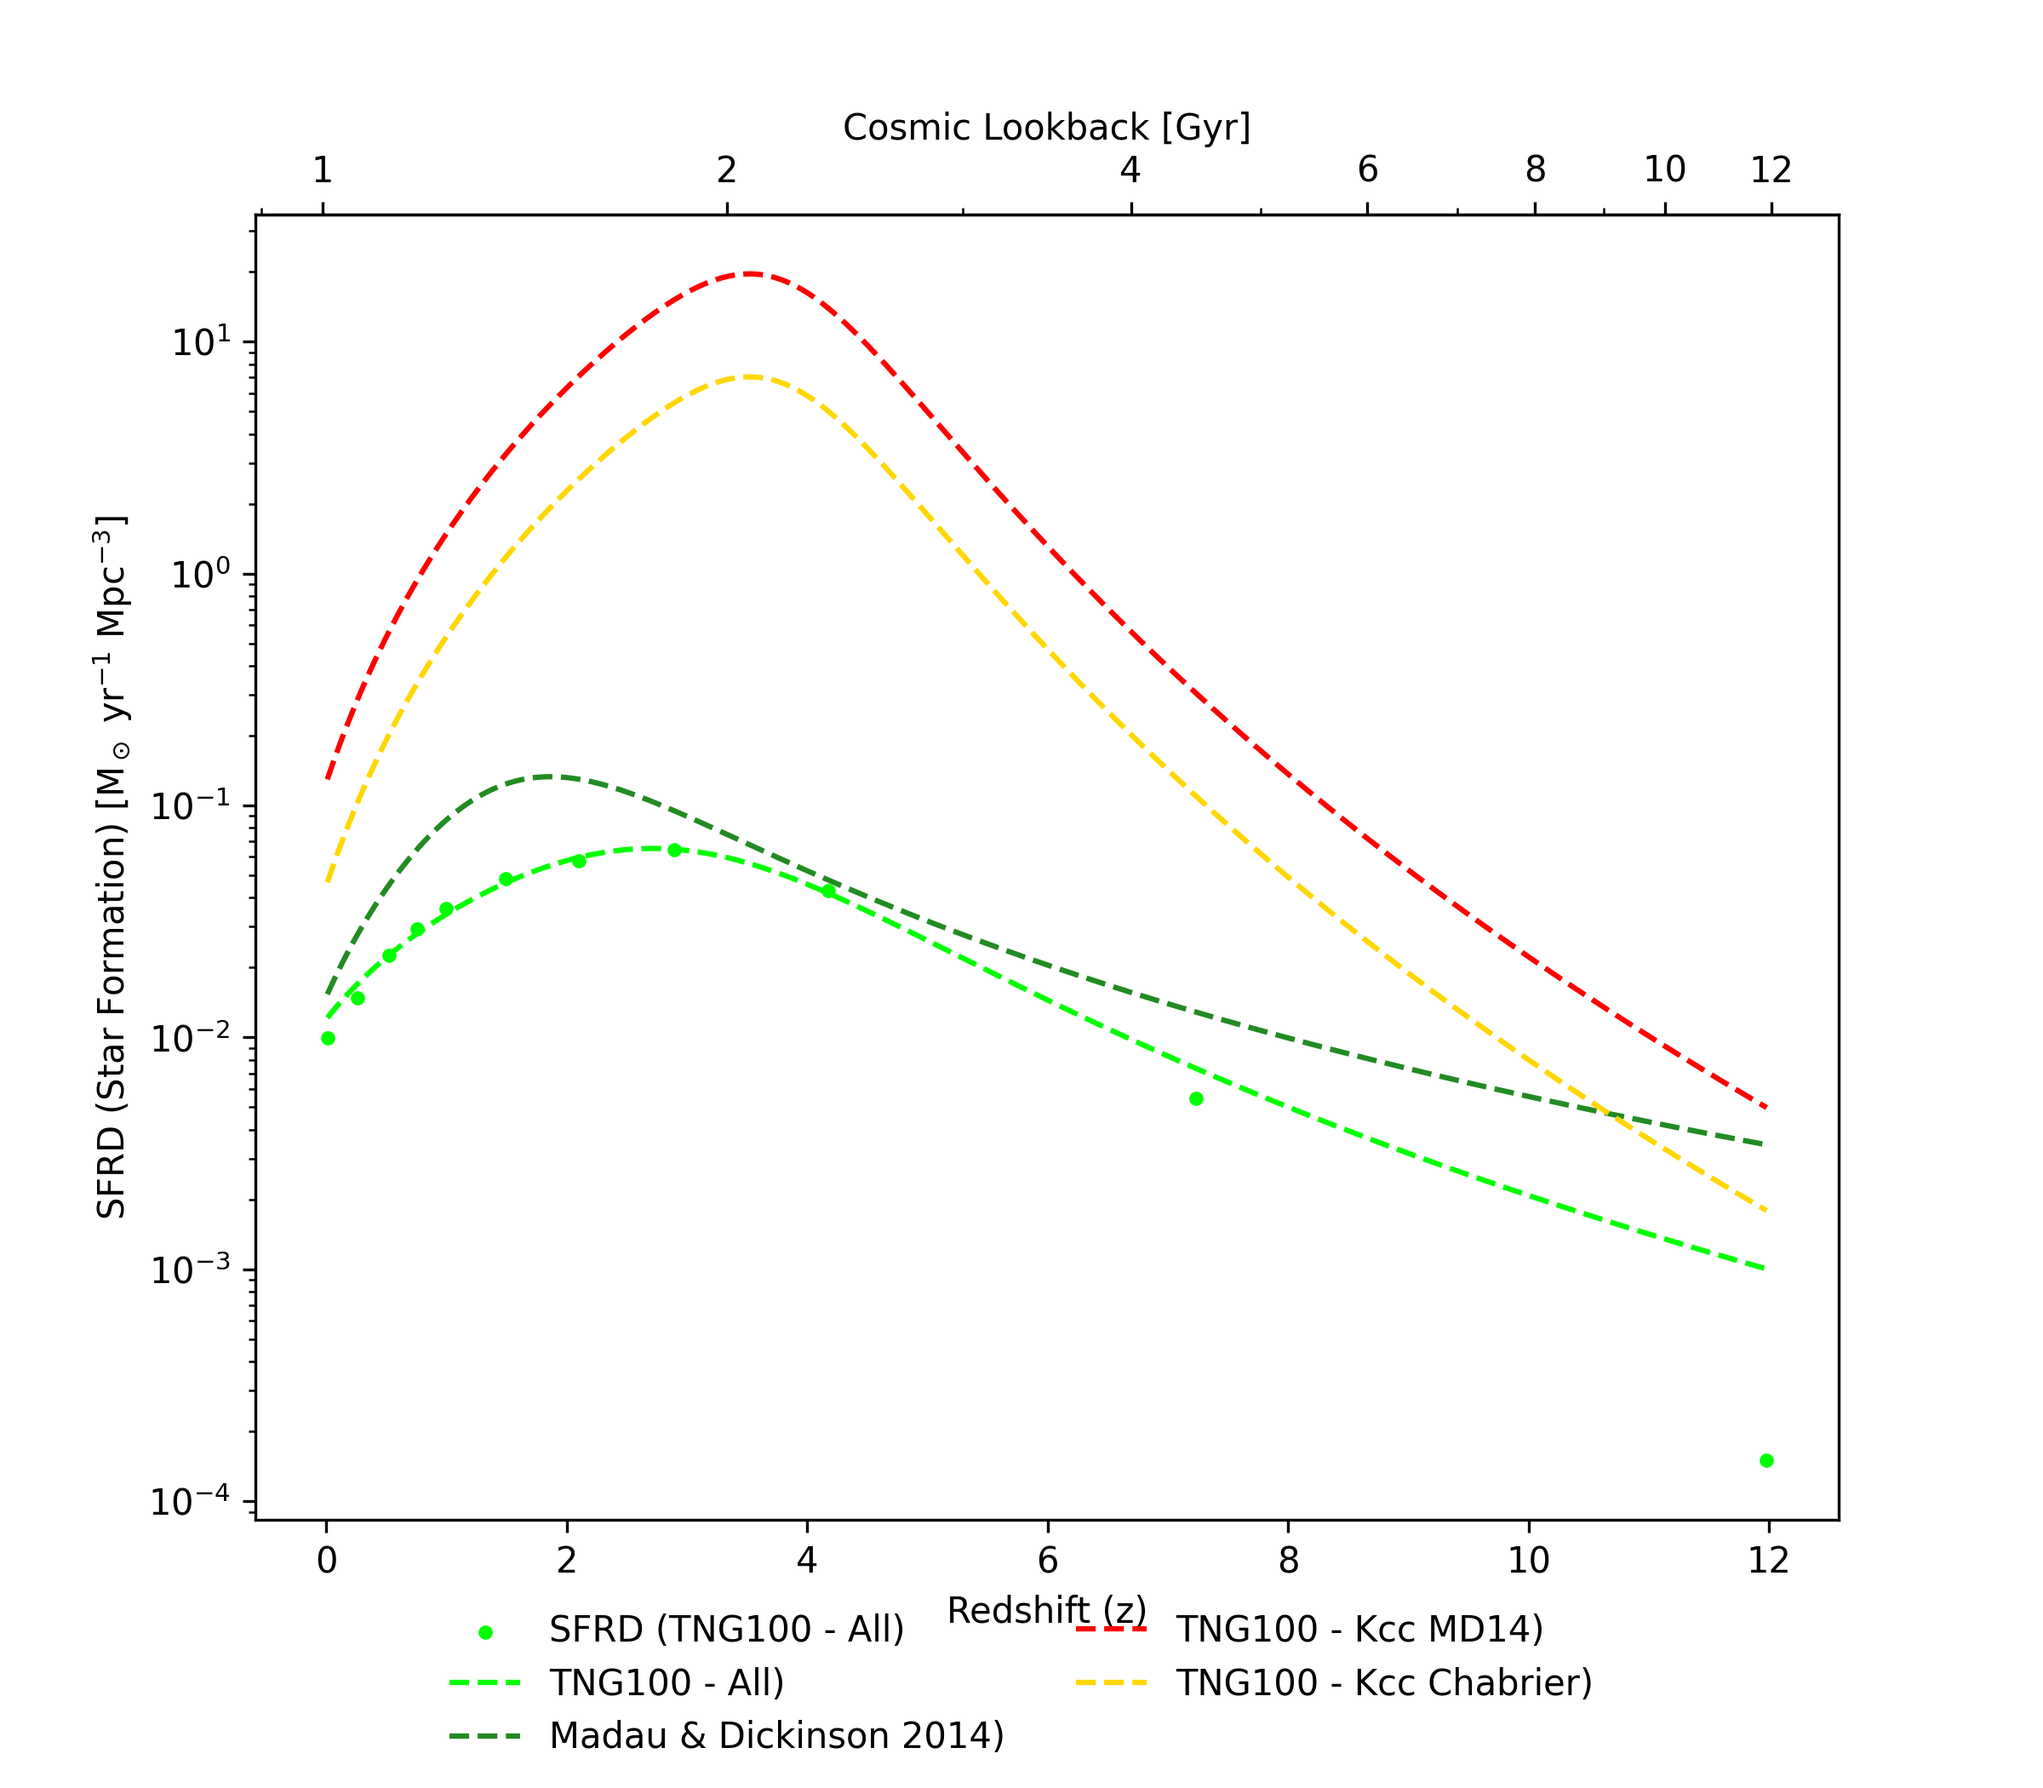
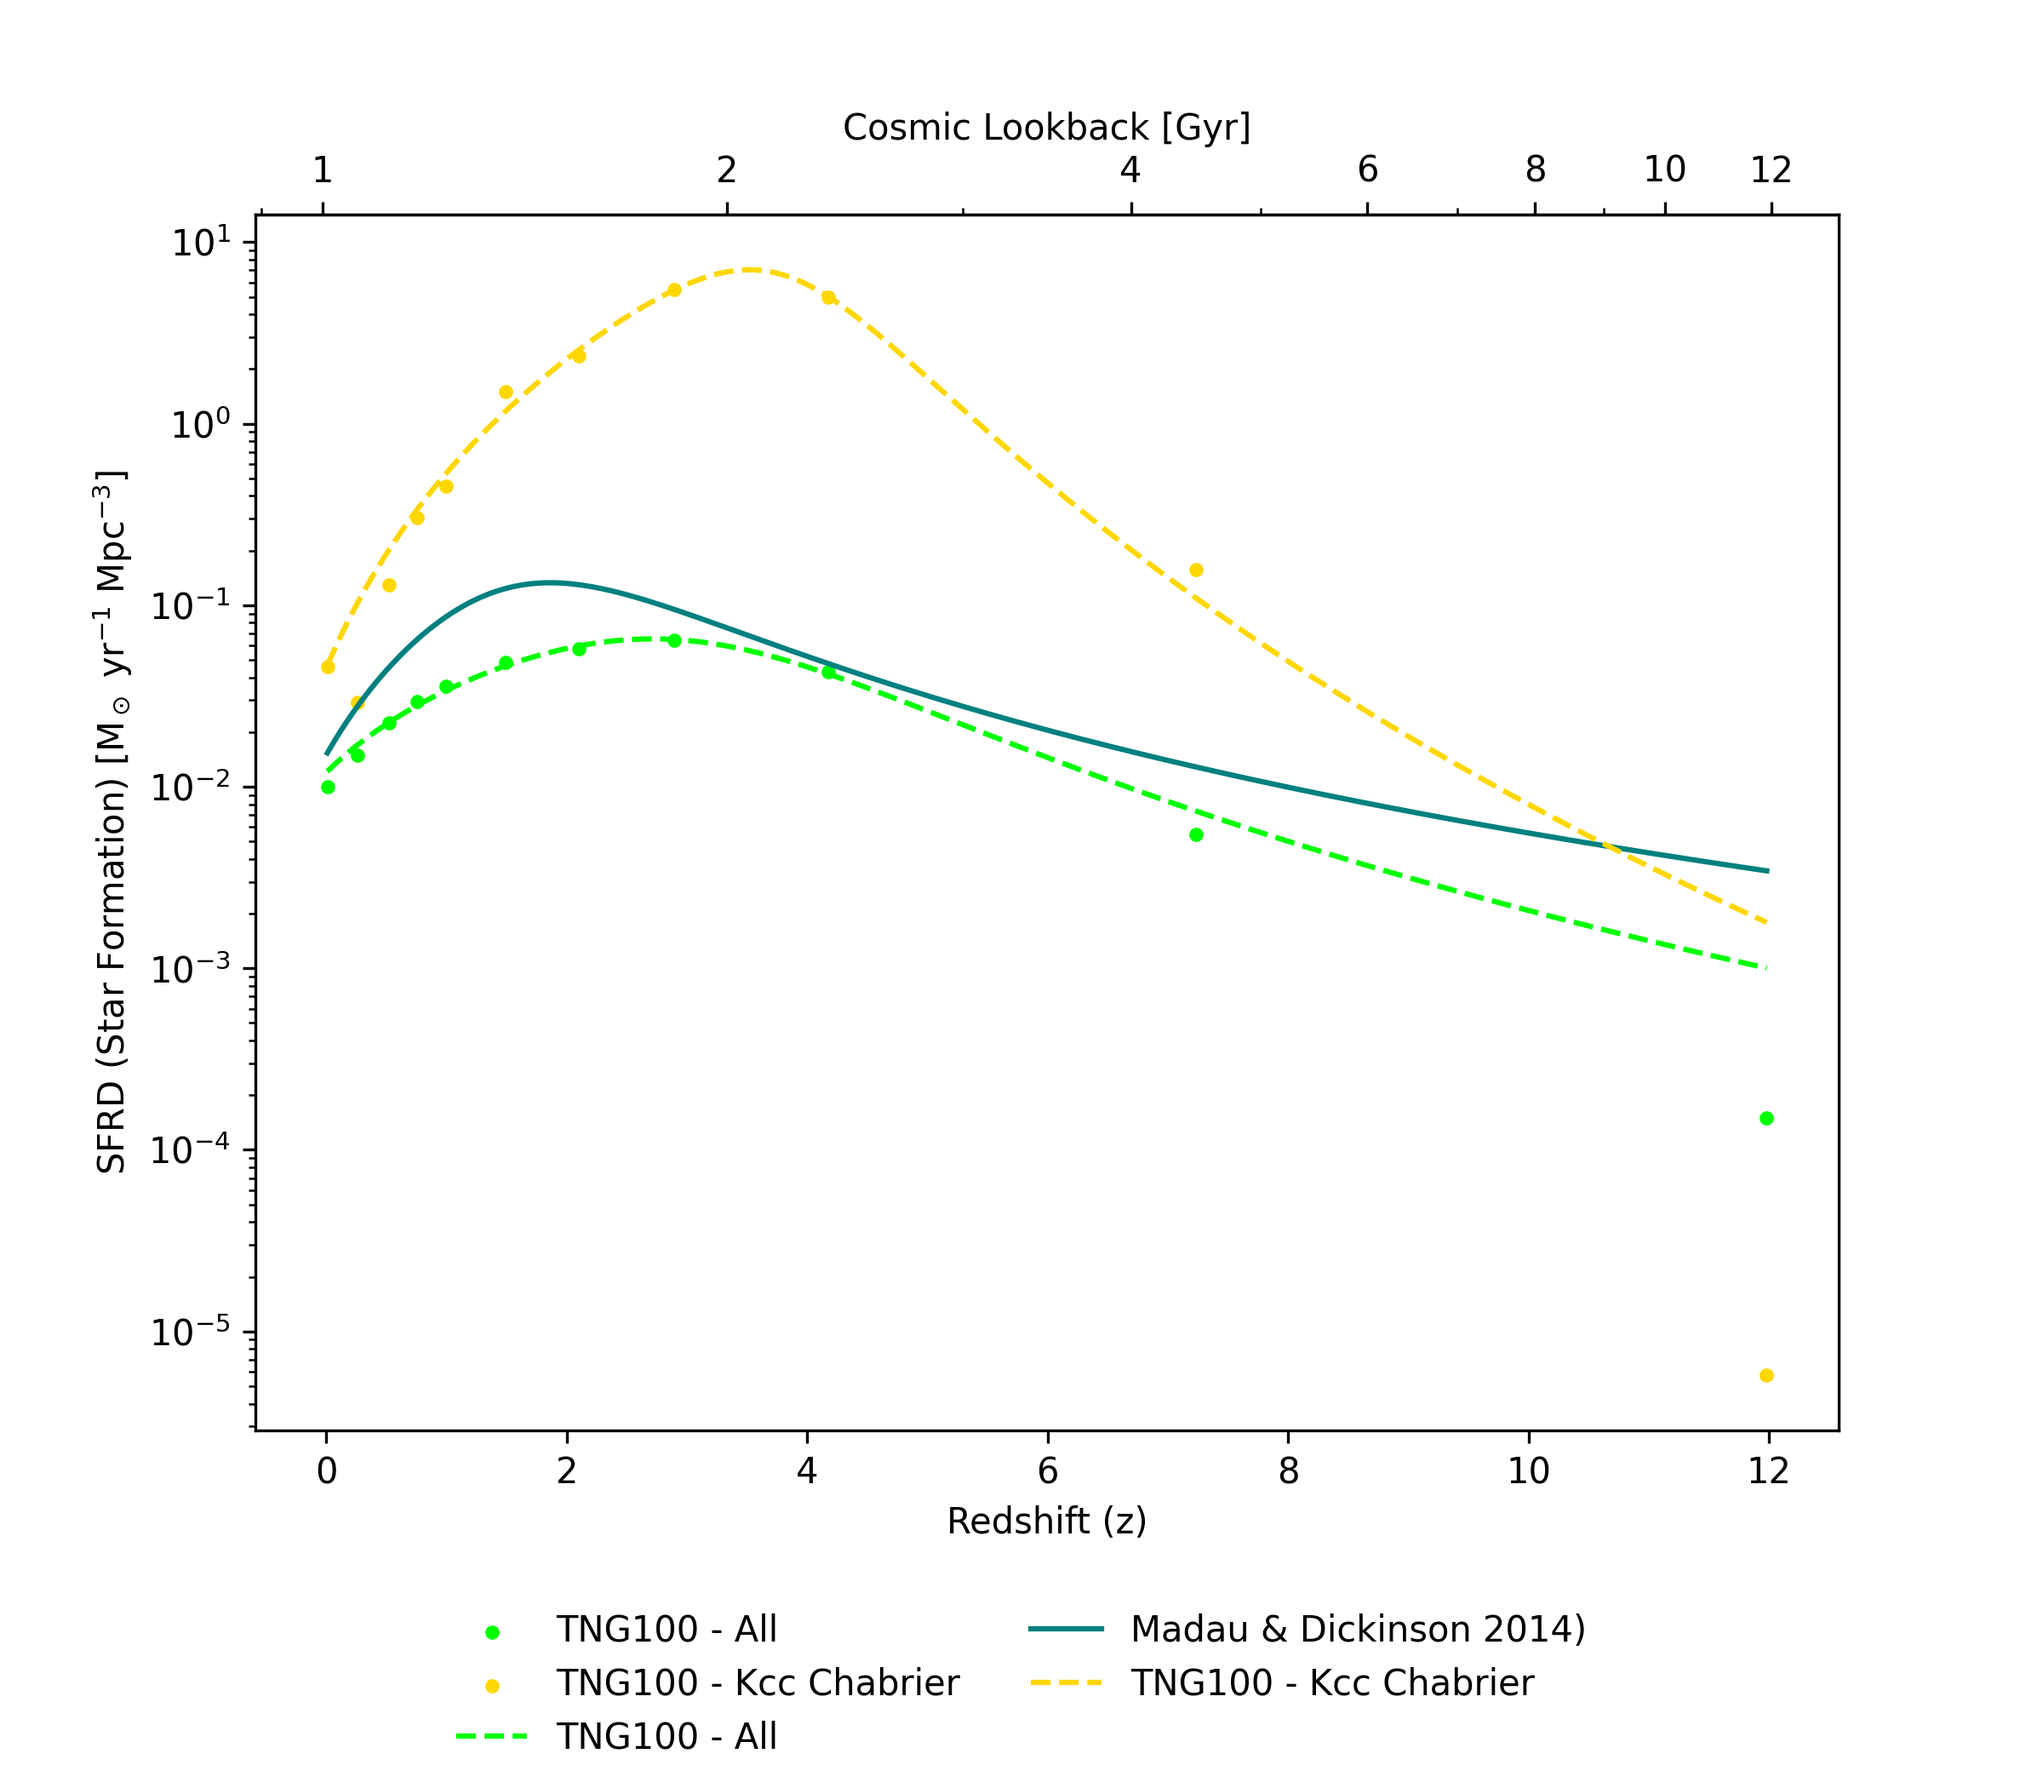
updated plots

diff --git a/tng.py b/tng.py
@@ -517,15 +517,14 @@ def cosmic_level(snaps):
     csnrh_chabrier = csfrh * kcc_chabrier
     csnrh_chabrier_sys = csfrh * kcc_chabrier_sys
 
-    print(kcc_salpeter)
-    print(kcc_kroupa)
-    print(kcc_chabrier)
-    print(kcc_chabrier_sys)
-
     # trace sfrd using snrd 
     # use new units snrd in yr-1 Mpc-3 and divide by kcc (Mo-1) gets Mo yr-1 Mpc-3 (SFRD)
     csfrh_kcc_md14 = md14_snrd_alt_scaled / 0.0068
     csfrh_kcc_chabrier = md14_snrd_alt_scaled / kcc_chabrier
+    csfrh_kcc_chabrier_raw = rev_snrd_alt_scaled / kcc_chabrier
+
+    #csfrh_kcc_md14_noscale = md14_snrd_alt / 0.0068
+    #csfrh_kcc_chabrier_noscale  = md14_snrd_alt / kcc_chabrier
     
     # CSNRH plot
     fig_csnrh, ax_csnrh1, ax_csnrh2 = plt_cosmo(rev_redshifts, r'SNRD (Supernova) [$\mathrm{yr^{-1}\ M_\odot^{-1}\ Mpc^{-3}}$]', r'SNRD (Supernova) [$\mathrm{yr^{-1}\ Mpc^{-3}}$]', space=0.2)
@@ -539,23 +538,26 @@ def cosmic_level(snaps):
     ls_csnrh2, = ax_csnrh1.plot(redshift_linespace, md14_snrd_scaled, linestyle='--', color='firebrick', label="TNG100")
     #ls_csnrh3, = ax_csnrh2.plot(redshift_linespace, md14_snrd_alt, linestyle='--', color='Blue', label="SNRD (TNG100 - no mass)")
     ls_csnrh4, = ax_csnrh2.plot(redshift_linespace, md14_snrd_alt_scaled, linestyle='--', color='Aqua', label="TNG100 - Alternate")
-    ls_csnrh5, = ax_csnrh2.plot(redshift_linespace, csnrh, linestyle='--', color='Navy', label="MD14 - Salpeter")
+    #ls_csnrh5, = ax_csnrh2.plot(redshift_linespace, csnrh, linestyle=':', color='Navy', label="MD14 - Salpeter")
     #ls_csnrh6, = ax_csnrh2.plot(redshift_linespace, csnrh_salpeter, linestyle=':', color='lime', label="SNRD (MD14 - Salpeter)")
     #ls_csnrh7, = ax_csnrh2.plot(redshift_linespace, csnrh_kroupa, linestyle=':', color='red', label="SNRD (MD14 - Kroupa)")
-    ls_csnrh9, = ax_csnrh2.plot(redshift_linespace, csnrh_chabrier, linestyle=':', color='gold', label="MD14 - Chabrier")
-    ls_csnrh9, = ax_csnrh2.plot(redshift_linespace, csnrh_chabrier_sys, linestyle=':', color='black', label="MD14 - Chabrier System")
+    ls_csnrh9, = ax_csnrh2.plot(redshift_linespace, csnrh_chabrier, linestyle='-', color='blue', label="MD14 - Chabrier")
+    #ls_csnrh9, = ax_csnrh2.plot(redshift_linespace, csnrh_chabrier_sys, linestyle=':', color='black', label="MD14 - Chabrier System")
 
     # CSFRH plot
-    fig_csfrh, ax_csfrd, _ = plt_cosmo(rev_redshifts, r'SFRD (Star Formation) [$\mathrm{M_\odot\ yr^{-1}\ Mpc^{-3}}$]', space=0.15)
+    fig_csfrh, ax_csfrd, _ = plt_cosmo(rev_redshifts, r'SFRD (Star Formation) [$\mathrm{M_\odot\ yr^{-1}\ Mpc^{-3}}$]', space=0.20)
     # scatters
-    #sc2 = ax_csfrd.scatter(rev_redshifts, rev_sfrd_1000, color='Green', label='SFRD (TNG100 - Top 1000)', marker='.')
+    #sc1 = ax_csfrd.scatter(rev_redshifts, rev_sfrd_1000, color='Green', label='SFRD (TNG100 - Top 1000)', marker='.')
     sc2 = ax_csfrd.scatter(rev_redshifts, rev_sfrd_all, color='lime', label='TNG100 - All', marker='.')
+    sc3 = ax_csfrd.scatter(rev_redshifts, csfrh_kcc_chabrier_raw, color='gold', label="TNG100 - Kcc Chabrier", marker='.')
     # lines
-    #ls_csfrh1, = ax_csfrd.plot(redshift_linespace, md14_snrd_1000, linestyle='--', color='Green', label="SFRD (TNG100 - Top 1000)")
-    ls_csfrh2, = ax_csfrd.plot(redshift_linespace, md14_snrd_all, linestyle='--', color='lime', label="TNG100)")
-    ls_csfrh3, = ax_csfrd.plot(redshift_linespace, csfrh, linestyle='--', color='forestgreen', label="Madau & Dickinson 2014)")
-    ls_csfrh2, = ax_csfrd.plot(redshift_linespace, csfrh_kcc_md14, linestyle='--', color='red', label="TNG100 - Kcc MD14)")
-    ls_csfrh3, = ax_csfrd.plot(redshift_linespace, csfrh_kcc_chabrier, linestyle='--', color='gold', label="TNG100 - Kcc Chabrier)")
+    #ls_csfrh1, = ax_csfrd.plot(redshift_linespace, md14_snrd_1000, linestyle='--', color='Green', label="TNG100 - Top 1000")
+    ls_csfrh2, = ax_csfrd.plot(redshift_linespace, md14_snrd_all, linestyle='--', color='lime', label="TNG100 - All")
+    ls_csfrh3, = ax_csfrd.plot(redshift_linespace, csfrh, linestyle='-', color='teal', label="Madau & Dickinson 2014)")
+    #ls_csfrh2, = ax_csfrd.plot(redshift_linespace, csfrh_kcc_md14, linestyle='--', color='red', label="TNG100 - Kcc MD14)")
+    ls_csfrh3, = ax_csfrd.plot(redshift_linespace, csfrh_kcc_chabrier, linestyle='--', color='gold', label="TNG100 - Kcc Chabrier")
+    #ls_csfrh2, = ax_csfrd.plot(redshift_linespace, csfrh_kcc_md14_noscale, linestyle='--', color='red', label="TNG100 - Kcc MD14 no scale)")
+    #ls_csfrh3, = ax_csfrd.plot(redshift_linespace, csfrh_kcc_chabrier_noscale, linestyle='--', color='gold', label="TNG100 - Kcc Chabrier no scale)")
 
     plt_labels_multiple(fig_csnrh, [ax_csnrh1, ax_csnrh2], 2)
     plt_labels(fig_csfrh, ax_csfrd, 2)
